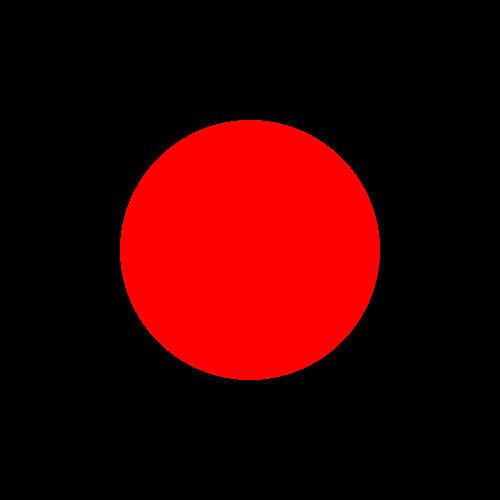
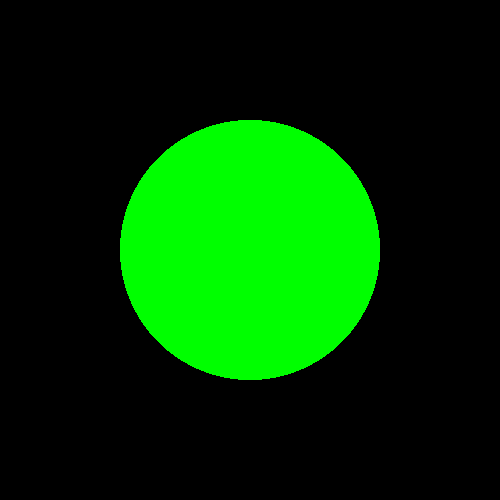
Use material's diffuse color to filled the buffer

Changed region(s): [[0.24, 0.24, 0.78, 0.78]]

diff --git a/wall-e/src/ray_tracer/intersection.rs b/wall-e/src/ray_tracer/intersection.rs
@@ -1,20 +1,32 @@
+use crate::prelude::PhongMaterial;
+
 use super::Ray;
 
 #[derive(Clone)]
 pub struct Intersection {
     t: f32,
     ray: Ray,
+    material: PhongMaterial,
 }
 
 impl Intersection {
-    pub fn new(ray: Ray, t: f32) -> Self {
+    pub fn new(ray: Ray, material: Option<PhongMaterial>, t: f32) -> Self {
         Self {
             t,
-            ray
+            material: material.unwrap_or_default(),
+            ray,
         }
     }
 
     pub fn t(&self) -> f32 {
         self.t
+    }
+
+    pub fn material(&self) -> &PhongMaterial {
+        &self.material
+    }
+
+    pub fn set_material(&mut self, material: PhongMaterial) {
+        self.material = material;
     }
 }

diff --git a/wall-e/src/ray_tracer/ray_tracer.rs b/wall-e/src/ray_tracer/ray_tracer.rs
@@ -27,11 +27,12 @@ impl<B: Buffer<Value = Vector3<f32>>> RayTracer<B> {
                 let pixel_pos = self.compute_pixel_position(x, y);
                 let ray = Ray::from_points(self.camera.origin(), pixel_pos);
 
-                let Some(interection) = self.cast_ray(ray) else {
+                let Some(intersection) = self.cast_ray(ray) else {
                     continue;
                 };
 
-                self.buffer.set(x, y, Vector3::new(1.0, 0.0, 0.0));
+                self.buffer
+                    .set(x, y, intersection.material().diffuse().clone());
             }
         }
         self.buffer.clone()

diff --git a/scripts/test.py b/scripts/test.py
@@ -1,6 +1,7 @@
 from wall_e_py import Scene, Transform, Geometry, Light, ray_trace, Camera, Material
 
 red = Material((1.0, 0.0, 0.0), (0.1, 0.1, 0.1), 1.0)
+green = Material((0.0, 1.0, 0.0), (0.1, 0.1, 0.1), 1.0)
 scene = Scene()
 
 root = Transform()
@@ -10,7 +11,7 @@ root.translate(2.0, 1.0, 1.0)
 geometry = Geometry("sphere")
 geometry.scale(1.0, 1.0, 1.0)
 geometry.translate(0.0, 0.0, 0.0)
-geometry.set_material(red)
+geometry.set_material(green)
 
 light = Light()
 light.scale(1.0, 2.0, 1.0)

diff --git a/wall-e/src/scene/node.rs b/wall-e/src/scene/node.rs
@@ -138,7 +138,12 @@ impl Geometry {
 impl Collidable for Geometry {
     fn intersect(&self, ray: &Ray) -> Option<Intersection> {
         // TODO: Apply transforms to the ray to account for the model's transform.
-        self.primitive.intersect(ray)
+        let Some(mut intersection) = self.primitive.intersect(ray) else {
+            return None;
+        };
+
+        intersection.set_material(self.material.clone());
+        Some(intersection)
     }
 }
 

diff --git a/wall-e/src/scene/primitives.rs b/wall-e/src/scene/primitives.rs
@@ -38,7 +38,7 @@ impl Collidable for Sphere {
             return None;
         } 
         
-        Some(Intersection::new(ray.clone(), t))
+        Some(Intersection::new(ray.clone(), None, t))
     }
 }
 

diff --git a/wall-e/src/scene/material.rs b/wall-e/src/scene/material.rs
@@ -15,6 +15,10 @@ impl PhongMaterial {
             shininess,
         }
     }
+
+    pub fn diffuse(&self) -> &Vector3<f32> {
+        &self.diffuse
+    }
 }
 
 impl Default for PhongMaterial {
